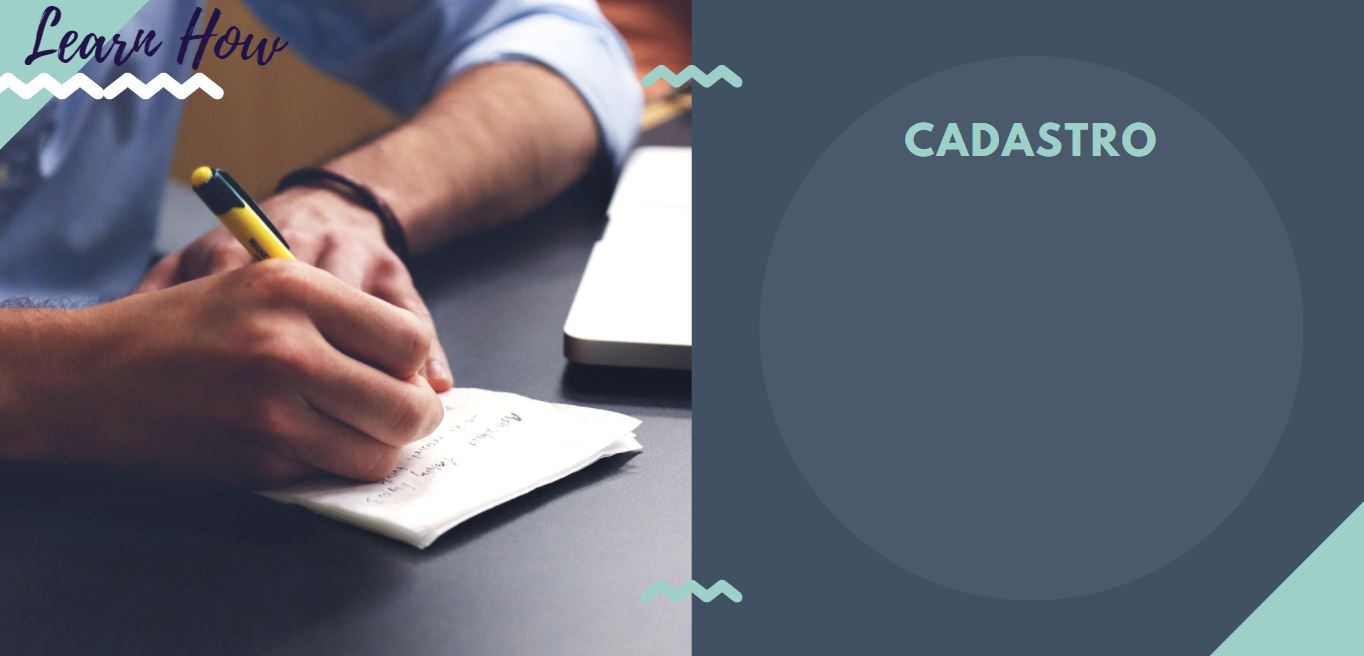
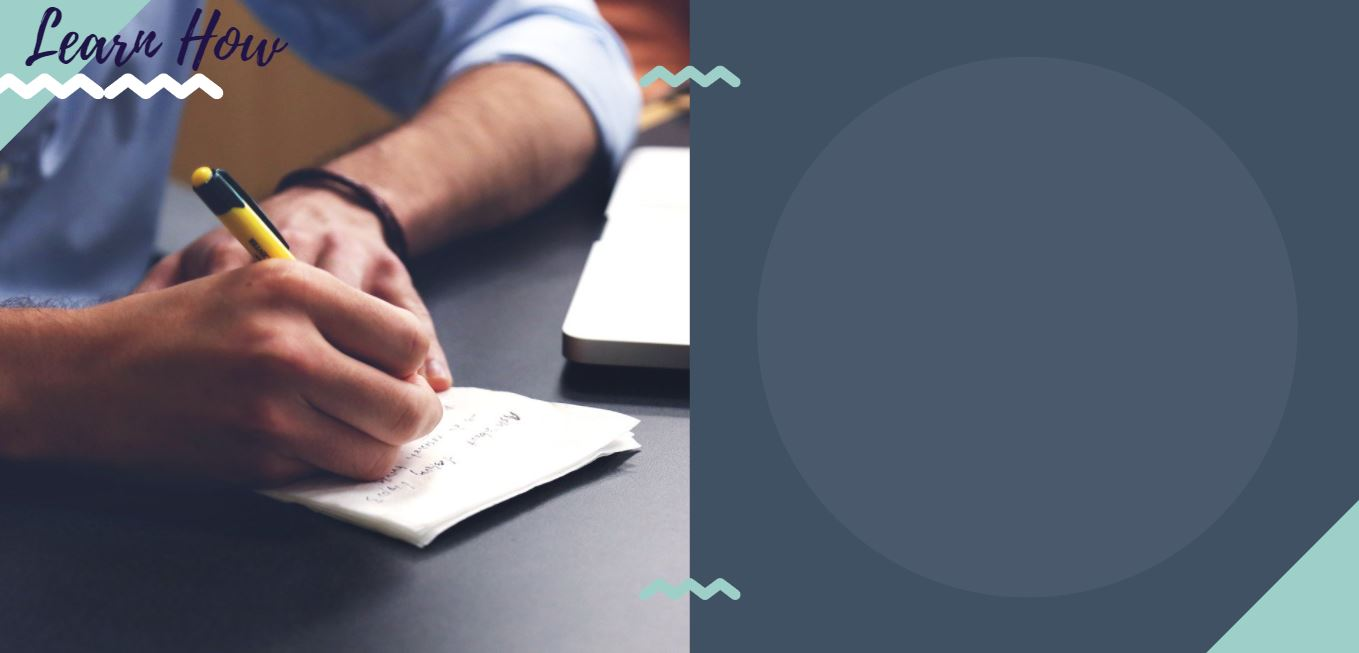
editando elementos de tela

diff --git a/src/app/pages/cadastrar/cadastrar.component.css b/src/app/pages/cadastrar/cadastrar.component.css
@@ -1,5 +1,6 @@
 @import url('https://fonts.googleapis.com/css2?family=Ubuntu:wght@300;700&display=swap');
 @import url('https://fonts.googleapis.com/css2?family=Open+Sans:wght@400;600&display=swap');
+@import url('https://fonts.googleapis.com/css2?family=Spartan:wght@500;600;700;800;900&display=swap');
 
 * {
     margin: 0;
@@ -7,14 +8,23 @@
   }
   
   section {
-    display: table;
-    width: 100%;
+    background-image: url(../../../assets/imgs/cadastro.JPG);
+    background-attachment: scroll;
+	  display: block;    
+    height: 100vh;
+	  background-repeat: no-repeat;	
+	  background-size: cover;
   }
 
-  .height-100 {
-    background-image: url(../../../assets/imgs/cadastro.JPG);
-    height: 100vh;
-    background-repeat: no-repeat;
+  h1 {
+    font-family: 'Spartan', sans-serif;
+	  font-weight: 800;
+	  font-size: 40px;
+	  color:#9ecfc9;
+	  position: relative; 
+	  top: 120px;
+	  left: 910px;
+    width: max-content;
   }
 
   label {
@@ -105,3 +115,29 @@
   button:hover{
 	transform: perspective(1px) scale3d(1.044, 1.044, 1) translateZ(0) !important;
   }
+
+  .exit {
+    display: inline-flex;
+  	align-items: center;
+  	justify-content: center;
+  	padding: 3px 35px;
+  	font-family: 'Open Sans', sans-serif;
+    font-weight: 600;
+    font-size: 25px;
+    text-align: center;
+    text-decoration: none;
+    color: #1b1744;
+    background-color: #9ecfc9;
+    backface-visibility: hidden;
+    border: 3px solid transparent;
+    border-radius: 40px;
+    box-shadow: 6px 6px 0px 1px #1b1744;;
+	
+    border-color: #1b1744;
+    transition: transform 0.2s cubic-bezier(0.235, 0, 0.05, 0.95);
+	
+    
+    position: absolute; 
+    right: 25px; 
+    top: 20px; 
+ }

diff --git a/src/app/pages/esqueci-senha/esqueci-senha.component.css b/src/app/pages/esqueci-senha/esqueci-senha.component.css
@@ -1,5 +1,6 @@
 @import url('https://fonts.googleapis.com/css2?family=Ubuntu:wght@300;700&display=swap');
 @import url('https://fonts.googleapis.com/css2?family=Open+Sans:wght@400;600&display=swap');
+@import url('https://fonts.googleapis.com/css2?family=Spartan:wght@500;600;700;800;900&display=swap');
 
 * {
     margin: 0;
@@ -7,16 +8,26 @@
   }
   
   section {
-    display: table;
-    width: 100%;
-  }
-
-  .height-100 {
     background-image: url(../../../assets/imgs/recuperarSenha.JPG);
+    background-attachment: scroll;
+	  display: block;    
     height: 100vh;
-    background-repeat: no-repeat;
+  	background-repeat: no-repeat;	
+	  background-size: cover;
   }
 
+  h1 {
+    font-family: 'Spartan', sans-serif;
+	  font-weight: 800;
+	  font-size: 40px;
+	  color:#9ecfc9;
+	  position: relative; 
+	  top: 110px;
+	  left: 460px;
+    width: max-content;
+  }
+
+ 
   label {
     position: absolute;
     font-family: 'Ubuntu', sans-serif;
@@ -74,3 +85,29 @@
   button:hover{
 	transform: perspective(1px) scale3d(1.044, 1.044, 1) translateZ(0) !important;
   }
+
+  .exit {
+    display: inline-flex;
+  	align-items: center;
+  	justify-content: center;
+  	padding: 3px 35px;
+  	font-family: 'Open Sans', sans-serif;
+    font-weight: 600;
+    font-size: 25px;
+    text-align: center;
+    text-decoration: none;
+    color: #1b1744;
+    background-color: #9ecfc9;
+    backface-visibility: hidden;
+    border: 3px solid transparent;
+    border-radius: 40px;
+    box-shadow: 6px 6px 0px 1px #1b1744;;
+	
+    border-color: #1b1744;
+    transition: transform 0.2s cubic-bezier(0.235, 0, 0.05, 0.95);
+	
+    
+    position: absolute; 
+    right: 25px; 
+    top: 20px; 
+ }

diff --git a/src/app/pages/login/login.component.css b/src/app/pages/login/login.component.css
@@ -1,6 +1,8 @@
 @import url('https://fonts.googleapis.com/css2?family=Ubuntu:wght@300;700&display=swap');
 @import url('https://fonts.googleapis.com/css2?family=Open+Sans:wght@400;600&display=swap');
 @import url('https://fonts.googleapis.com/css2?family=Dancing+Script&display=swap');
+@import url('https://fonts.googleapis.com/css2?family=Spartan:wght@500;600;700;800;900&display=swap');
+@import url(//db.onlinewebfonts.com/c/1fed4454352f201d52b65ca5480afb2d?family=Playlist);
 
 * {
     margin: 0;
@@ -8,14 +10,12 @@
   }
   
   section {
-    display: table;
-    width: 100%;
-  }
-
-  .height-100 {
-    background-image: url(../../../assets/imgs/login.JPG);
+    background-image: url(../../../assets/imgs/welcome.JPG);
+    background-attachment: scroll;
+	  display: block;    
     height: 100vh;
-    background-repeat: no-repeat;
+	  background-repeat: no-repeat;	
+	  background-size: cover;
   }
 
   #labelEmail {
@@ -26,6 +26,8 @@
     font-weight: 700;
     font-size: 22px;
     color: white;
+    
+    
   }
 
   #email {
@@ -104,6 +106,18 @@
 
   button:hover{
 	transform: perspective(1px) scale3d(1.044, 1.044, 1) translateZ(0) !important;
+  }
+
+  #learn, #how {
+	  font-family: 'Spartan', sans-serif;
+	  font-weight: 800;
+	  font-size: 80px;
+	  color: white;
+	  position: relative; 
+	  top: 150px;
+	  left: 90px;
+    text-shadow: 6px 6px 1px #425261;	
+    width: max-content;  
   }
 
   .cadastrar {

diff --git a/src/app/pages/menu/menu.component.css b/src/app/pages/menu/menu.component.css
@@ -1,16 +1,46 @@
+@import url('https://fonts.googleapis.com/css2?family=Open+Sans:wght@400;600&display=swap');
+
 * {
     margin: 0;
     padding: 0;
   }
   
   section {
-    display: table;
-    width: 100%;
-  }
-
-  .height-100 {
     background-image: url(../../../assets/imgs/menu.JPG);
+    background-attachment: scroll;
+	  display: block;    
     height: 100vh;
-    background-repeat: no-repeat;
-        
+	  background-repeat: no-repeat;	
+	  background-size: cover;
   }
+  
+  button:hover{
+    transform: perspective(1px) scale3d(1.044, 1.044, 1) translateZ(0) !important;
+    }
+
+  .exit {
+    display: inline-flex;
+  	align-items: center;
+  	justify-content: center;
+  	padding: 3px 35px;
+  	font-family: 'Open Sans', sans-serif;
+    font-weight: 600;
+    font-size: 25px;
+    text-align: center;
+    text-decoration: none;
+    color: #1b1744;
+    background-color: #9ecfc9;
+    backface-visibility: hidden;
+    border: 3px solid transparent;
+    border-radius: 40px;
+    box-shadow: 6px 6px 0px 1px #1b1744;;
+	
+    border-color: #1b1744;
+    transition: transform 0.2s cubic-bezier(0.235, 0, 0.05, 0.95);
+	
+    
+    position: absolute; 
+    right: 25px; 
+    top: 20px; 
+ }
+

diff --git a/src/app/pages/welcome/welcome.component.css b/src/app/pages/welcome/welcome.component.css
@@ -1,4 +1,6 @@
 @import url('https://fonts.googleapis.com/css2?family=Open+Sans:wght@400;600&display=swap');
+@import url('https://fonts.googleapis.com/css2?family=Spartan:wght@500;600;700;800;900&display=swap');
+@import url('https://fonts.googleapis.com/css2?family=Ubuntu:wght@300;500;600;700&display=swap');
 
 
 * {
@@ -7,16 +9,40 @@
   }
   
   section {
-    display: table;
-    width: 100%;
-  }
-
-  .height-100 {
     background-image: url(../../../assets/imgs/welcome.JPG);
+	background-attachment: scroll;
+	display: block;    
     height: 100vh;
-	background-repeat: no-repeat;
+  	background-repeat: no-repeat;	
+	background-size: cover;
   }
 
+  #learn, #how {
+	  font-family: 'Spartan', sans-serif;
+	  font-weight: 800;
+	  font-size: 80px;
+	  color: white;
+	  position: relative; 
+	  top: 150px;
+	  left: 100px;
+	  text-shadow: 6px 6px 1px rgba(253, 210, 79, 1);
+	  width: max-content;	
+	    
+  }
+
+ 
+  .descricao {
+	font-family: 'Ubuntu', sans-serif;
+	font-weight: 500;
+	font-size: 25px;
+	color: whitesmoke;
+	position: relative; 
+	top: 150px;
+	left: 105px;
+	width: max-content;
+			  
+  }
+ 
  button {
     display: inline-flex;
   	align-items: center;

diff --git a/src/app/pages/login/login.component.html b/src/app/pages/login/login.component.html
@@ -7,8 +7,10 @@
     <title>Login</title>
 </head>
 <body>
-    <section class="height-100">
+    <section id="main_content">
         <div class="content">
+            <p id="learn">FAZER</p>
+            <p id="how">LOGIN</p>
             <button routerLink="/cadastrar" class="cadastrar">Cadastrar-se</button>
             <label id="labelEmail" for="email">EMAIL</label>
             <input type="email" name="email" id="email">
@@ -16,8 +18,7 @@
             <label id="labelSenha" for="senha">SENHA</label>
             <input type="password" name="senha" id="senha">
             <a id="esqueciSenha" routerLink="/esqueciSenha">Esqueci minha senha</a>
-            <button class="start" type="submit" (click)="fazerLogin()">START</button>
-                   
+            <button class="start" type="submit" (click)="fazerLogin()">START</button>                               
         </div>
       </section>
 </body>

diff --git a/src/app/pages/cadastrar/cadastrar.component.html b/src/app/pages/cadastrar/cadastrar.component.html
@@ -7,7 +7,8 @@
     <title>Cadastrar</title>
 </head>
 <body>
-    <section class="height-100">
+    <section id="main_content">
+        <h1>CADASTRO</h1>
         <div class="content">
             <label id="labelEmail" for="email">EMAIL</label>
             <input type="email" name="email" id="email">
@@ -20,7 +21,8 @@
             <br>
             <label id = "labelCargo" for="cargo">CARGO</label>   
             <input type="text" name="cargo" id="cargo">
-            <button class="start" type="submit" (click)="cadastrar()">START</button>           
+            <button class="start" type="submit" (click)="cadastrar()">START</button>
+            <button class="exit" type="button" routerLink="/login">SAIR</button>           
         </div>
       </section>
 </body>

diff --git a/src/app/pages/welcome/welcome.component.html b/src/app/pages/welcome/welcome.component.html
@@ -7,8 +7,16 @@
     <title>Welcome</title>
 </head>
 <body>
-    <section class="height-100">
+    <section id="main_content">
         <div class="content">
+            <p id="learn">LEARN</p>
+            <p id="how">HOW</p>
+            <div id="descricao" class="descricao">
+                <p>Tenha o controle sobre o   </p>
+                <p>conhecimento que agrega valor.</p>
+                <p>Gerencie, colabore e desenvolva</p>
+                <p>novas habilidades.</p>
+            </div>            
            <button routerLink="login" >START</button>            
         </div>
       </section>

diff --git a/src/app/pages/esqueci-senha/esqueci-senha.component.html b/src/app/pages/esqueci-senha/esqueci-senha.component.html
@@ -7,12 +7,14 @@
     <title>esqueciSenha</title>
 </head>
 <body>
-    <section class="height-100">
+    <section id="main_content">
+        <h1>RECUPERAR SENHA</h1>
         <div class="content">
             <label id="labelEsqueciSenhaEmail" for="esqueciSenhaEmail">EMAIL</label>
             <input type="email" name="esqueciSenhaEmail" id="esqueciSenhaEmail">
             <button class="enviar" type="submit" (click)="esqueciSenha()">ENVIAR</button>                       
         </div>
+        <button class="exit" type="button" routerLink="/login">SAIR</button>
       </section>
 </body>
 </html>

diff --git a/src/app/pages/menu/menu.component.html b/src/app/pages/menu/menu.component.html
@@ -7,10 +7,11 @@
     <title>Menu</title>
 </head>
 <body>
-    <section class="height-100">
+    <section id="main_content">
         <div class="content">
                        
         </div>
+        <button class="exit" type="button" routerLink="/login">SAIR</button>
       </section>
 </body>
 </html>
